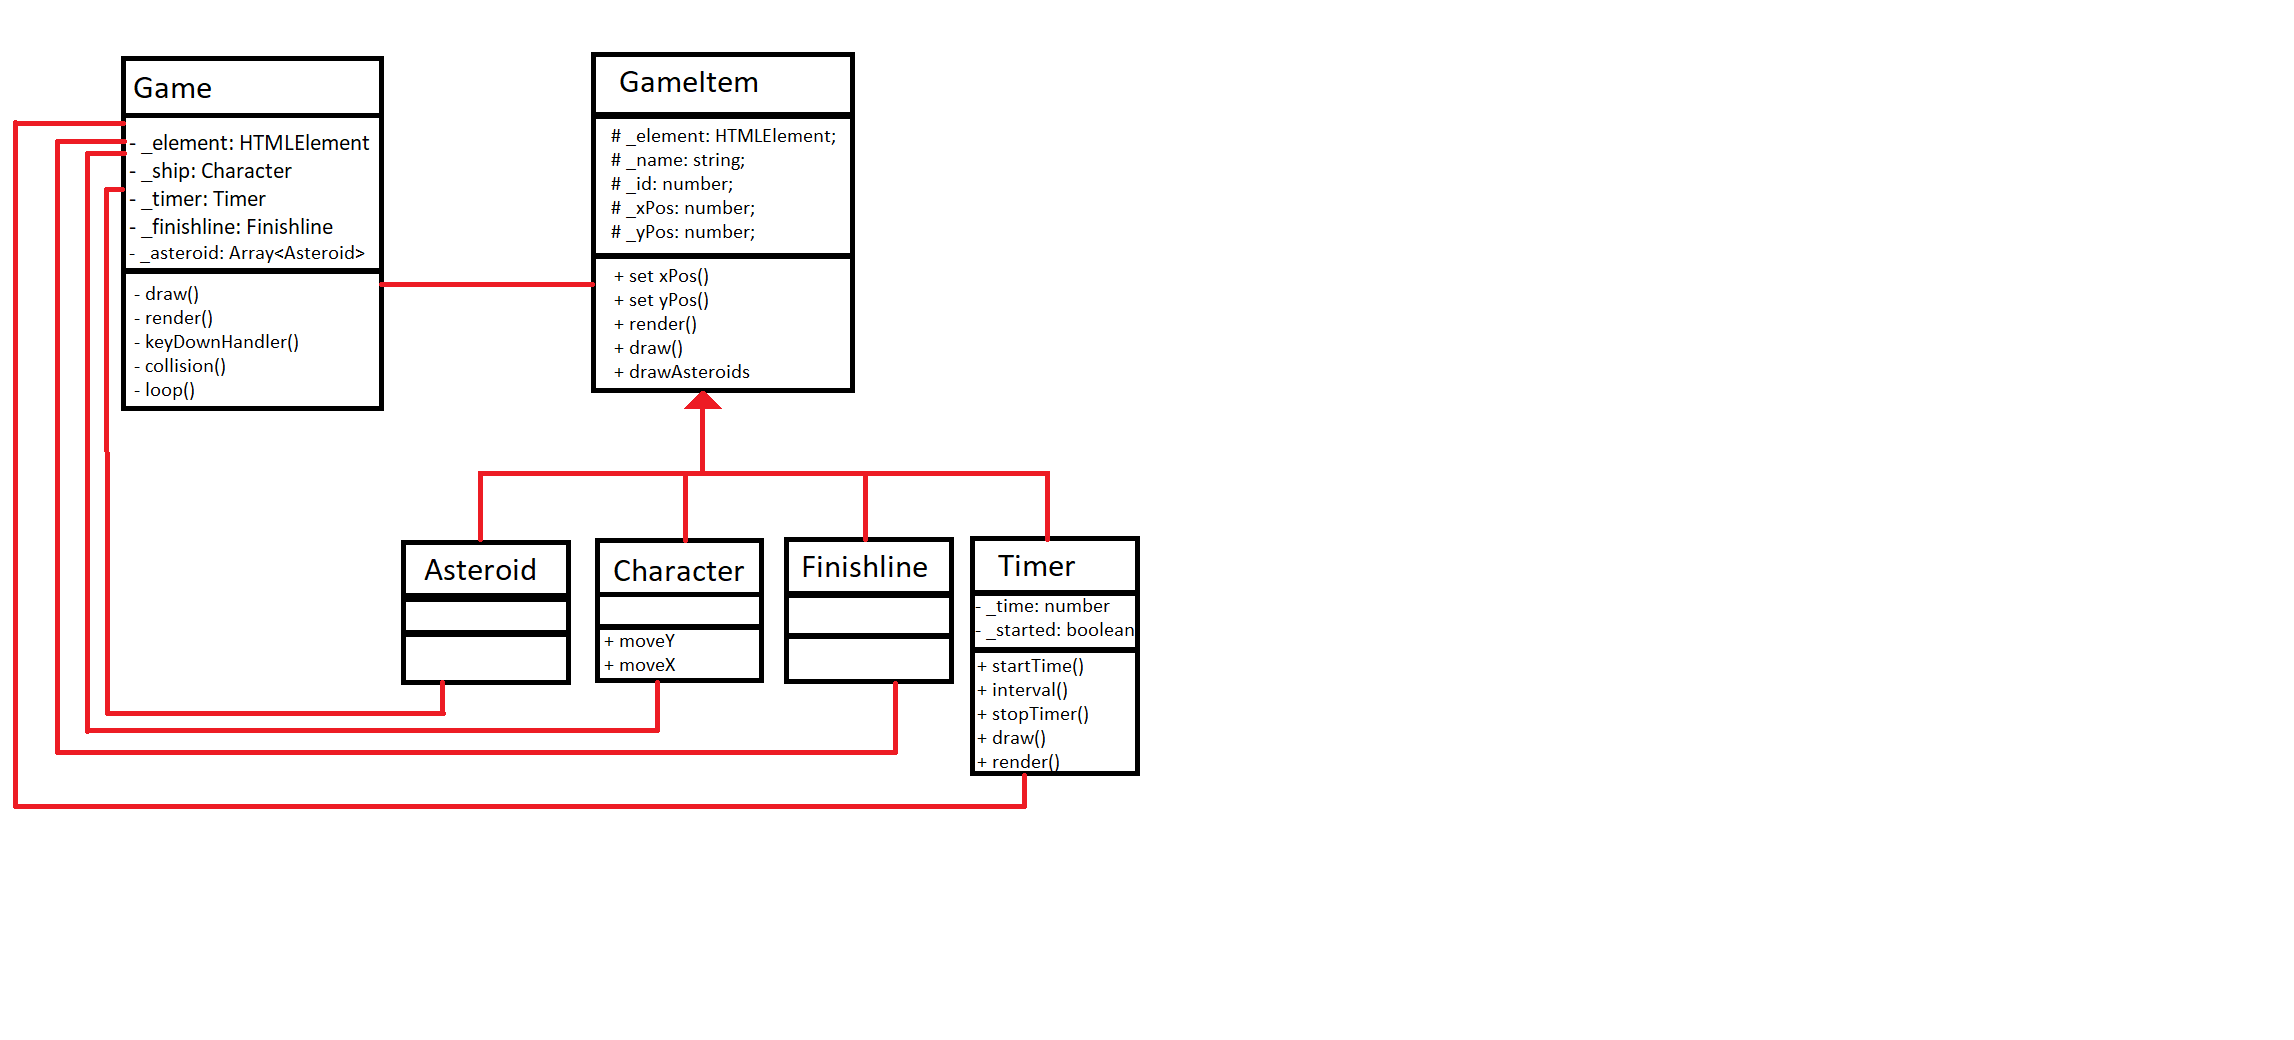
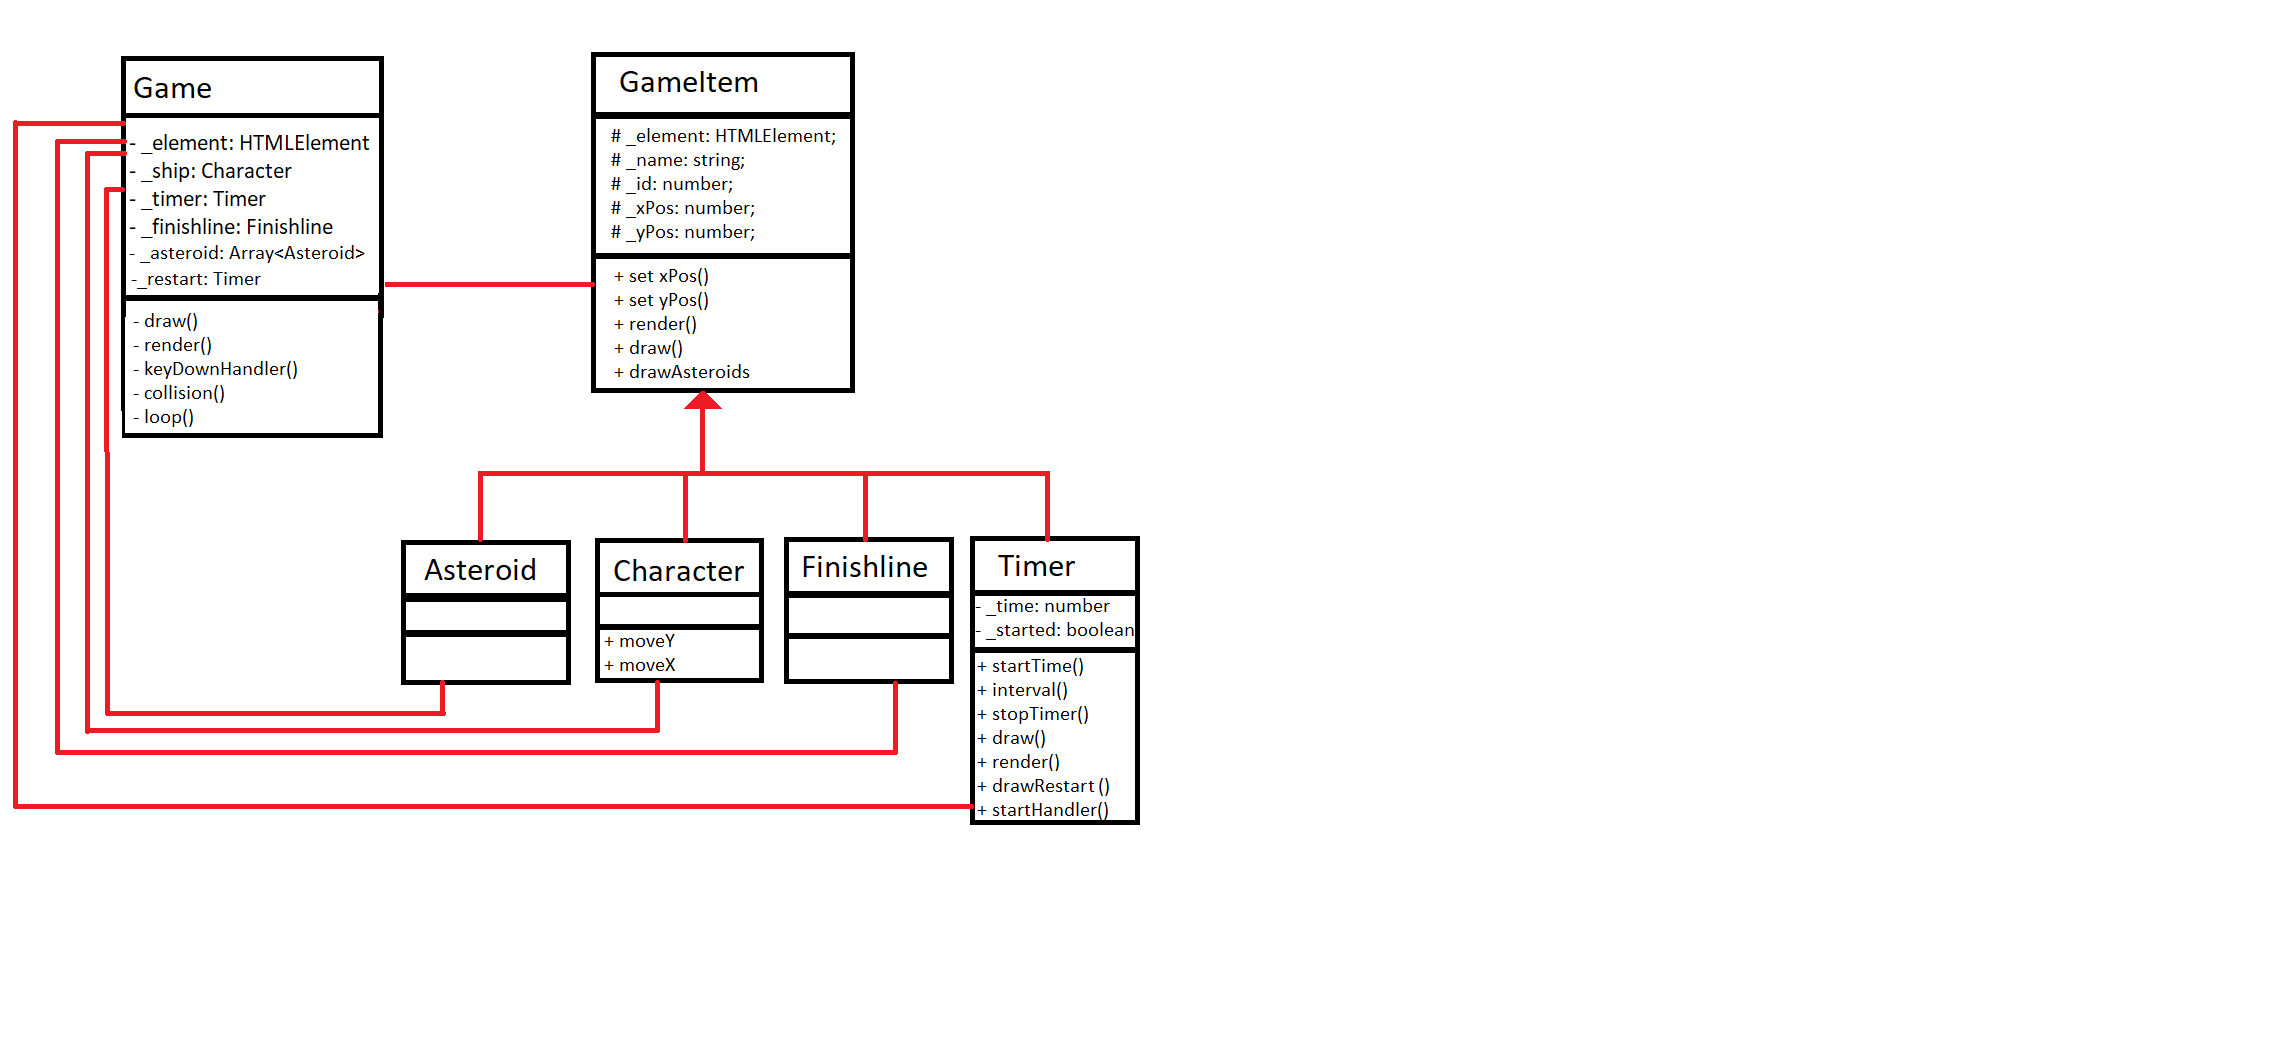
restart toegevoegd

Changed region(s): [[0.0619, 0.2462, 0.1548, 0.4308], [0.4024, 0.7385, 0.4952, 0.8]]

diff --git a/ts/game.ts b/ts/game.ts
@@ -4,6 +4,7 @@ class Game {
     private _element: HTMLElement = document.getElementById('container');
     private _ship: Character;
     private _timer: Timer;
+    private _restart: Timer;
     private _finishline: Finishline;
     private _asteroid: Array<Asteroid> = new Array(); //use an array if you have multiple gameItems of the same sort
 
@@ -12,6 +13,7 @@ class Game {
         //create some gameItems
         this._ship = new Character('ship', 10);
         this._timer = new Timer('timer', 11);
+        this._restart = new Timer('restart', 13, 1450, 700);
         this._finishline = new Finishline('finishline', 12);
         this._asteroid[0] = new Asteroid('asteroid-1', 1, 200, 0);
         this._asteroid[1] = new Asteroid('asteroid-2', 2, 300, -150);
@@ -37,6 +39,7 @@ class Game {
     private draw(): void {
         this._ship.draw(this._element);
         this._timer.draw(this._element);
+        this._restart.drawRestart(this._element);
         this._finishline.draw(this._element);
         for (let index = 0; index < this._asteroid.length; index++) {
             this._asteroid[index].drawAsteroids(this._element)
@@ -91,62 +94,62 @@ class Game {
         const shipRect = document.getElementById('10').getBoundingClientRect();
         
         //asteroid 1
-        if (shipRect.top <= 283.5 && shipRect.right >= 277.5 && shipRect.left <= 431.5 && shipRect.bottom >= 143.5) {
+        if (shipRect.top <= 308 && shipRect.right >= 274.5 && shipRect.left <= 432.5 && shipRect.bottom >= 168) {
             console.log('collision with Asteroid');
             this._ship.xPos = 0;
             this._ship.yPos = 0;
         }
         //asteroid 2
-        else if (shipRect.top <= 500 && shipRect.right >= 395 && shipRect.left <= 618 && shipRect.bottom >= 319) {
+        else if (shipRect.top <= 530 && shipRect.right >= 401.5 && shipRect.left <= 609.5 && shipRect.bottom >= 345) {
             console.log('collision with Asteroid');
             this._ship.xPos = 0;
             this._ship.yPos = 0;
         }
         //asteroid 3
-        else if (shipRect.top <= 198.5 && shipRect.right >= 595.5 && shipRect.left <= 749.5 && shipRect.bottom >= 57.5) {
+        else if (shipRect.top <= 227 && shipRect.right >= 593.5 && shipRect.left <= 750.5 && shipRect.bottom >= 85) {
           console.log('collision with Asteroid');
             this._ship.xPos = 0;
             this._ship.yPos = 0;
         }
         //asteroid 4
-        else if (shipRect.top <= 211.5 && shipRect.right >= 857.5 && shipRect.left <= 984.5 && shipRect.bottom >= 92.4) {
+        else if (shipRect.top <= 211 && shipRect.right >= 857.5 && shipRect.left <= 985.5 && shipRect.bottom >= 92) {
             console.log('collision with Asteroid');
             this._ship.xPos = 0;
             this._ship.yPos = 0;
         }
         //asteroid 5
-        else if (shipRect.top <= 461.4 && shipRect.right >= 782.5 && shipRect.left <= 910.5 && shipRect.bottom >= 341.4) {
+        else if (shipRect.top <= 463 && shipRect.right >= 781.5 && shipRect.left <= 910.5 && shipRect.bottom >= 342) {
             console.log('collision with Asteroid');
             this._ship.xPos = 0;
             this._ship.yPos = 0;
         }
         //asteroid 6
-        else if (shipRect.top <= 688.4 && shipRect.right >= 1044.5 && shipRect.left <= 1305.5 && shipRect.bottom >= 462.4) {
+        else if (shipRect.top <= 690 && shipRect.right >= 1044.5 && shipRect.left <= 1270.5 && shipRect.bottom >= 462) {
             console.log('collision with Asteroid');
             this._ship.xPos = 0;
             this._ship.yPos = 0;
         }
         //asteroid 7
-        else if (shipRect.top <= 249.5 && shipRect.right >= 1075.5 && shipRect.left <= 1268.5 && shipRect.bottom >= 77.4) {
+        else if (shipRect.top <= 250 && shipRect.right >= 1075.5 && shipRect.left <= 1270.5 && shipRect.bottom >= 76) {
             console.log('collision with Asteroid');
             this._ship.xPos = 0;
             this._ship.yPos = 0;
         }
         //asteroid 8
-        else if (shipRect.top <= 400.4 && shipRect.right >= 1365.5 && shipRect.bottom >= 228) {
+        else if (shipRect.top <= 399 && shipRect.right >= 1304.5 && shipRect.bottom >= 226) {
             console.log('collision with Asteroid');
             this._ship.xPos = 0;
             this._ship.yPos = 0;
         }
         //asteroid 9
-        else if (shipRect.top <= 690 && shipRect.left <= 244 && shipRect.bottom >= 200.5) {
+        else if (shipRect.top <= 620 && shipRect.left <= 244.5 && shipRect.bottom >= 203) {
             console.log('collision with Asteroid');
             this._ship.xPos = 0;
             this._ship.yPos = 0;
         }
 
         //finish
-        if (shipRect.top < 10) {
+        if (shipRect.top < 55) {
             this._timer.stopTimer();
             window.removeEventListener('keydown', this.keyDownHandler);
             console.log('collision with finish');

diff --git a/ts/timer.ts b/ts/timer.ts
@@ -60,11 +60,33 @@ class Timer extends GameItem {
         container.appendChild(this._element);
     }
 
+    public drawRestart(container: HTMLElement): void {
+        //create div
+        this._element = document.createElement('div');
+        this._element.className = this._name;
+        this._element.id = this._id.toString();
+        this._element.style.transform = `translate(${this._xPos}px, ${this._yPos}px)`;
+
+        //Create a restart button
+        const button = document.createElement('button');
+        button.id = 'restart';
+        button.innerHTML = 'restart';
+        button.addEventListener('click', this.startHandler);
+
+        //append elements
+        this._element.appendChild(button);
+        container.appendChild(this._element);
+    }
+
     //update the state of the timer in the DOM
     public render(): void {
         //get the contents of span
         const timeSpan = (<HTMLElement>this._element);
         timeSpan.innerHTML = 'Your time: ' + this._time.toString();
         console.log(this);
+    }
+
+    private startHandler = (e : Event)=>{
+        location.reload();
     }
 }

diff --git a/assets/css/style.css b/assets/css/style.css
@@ -113,3 +113,13 @@ img {
 .flying{
   transition: width 2s, height 2s, background-color 2s, transform 2s;  
 }
+
+.start{
+  position: fixed;
+  margin: 10px;
+  padding: 10px;
+  left: 0;
+  bottom: 0;
+  background-color: grey;
+  border-radius: 10%;
+}
